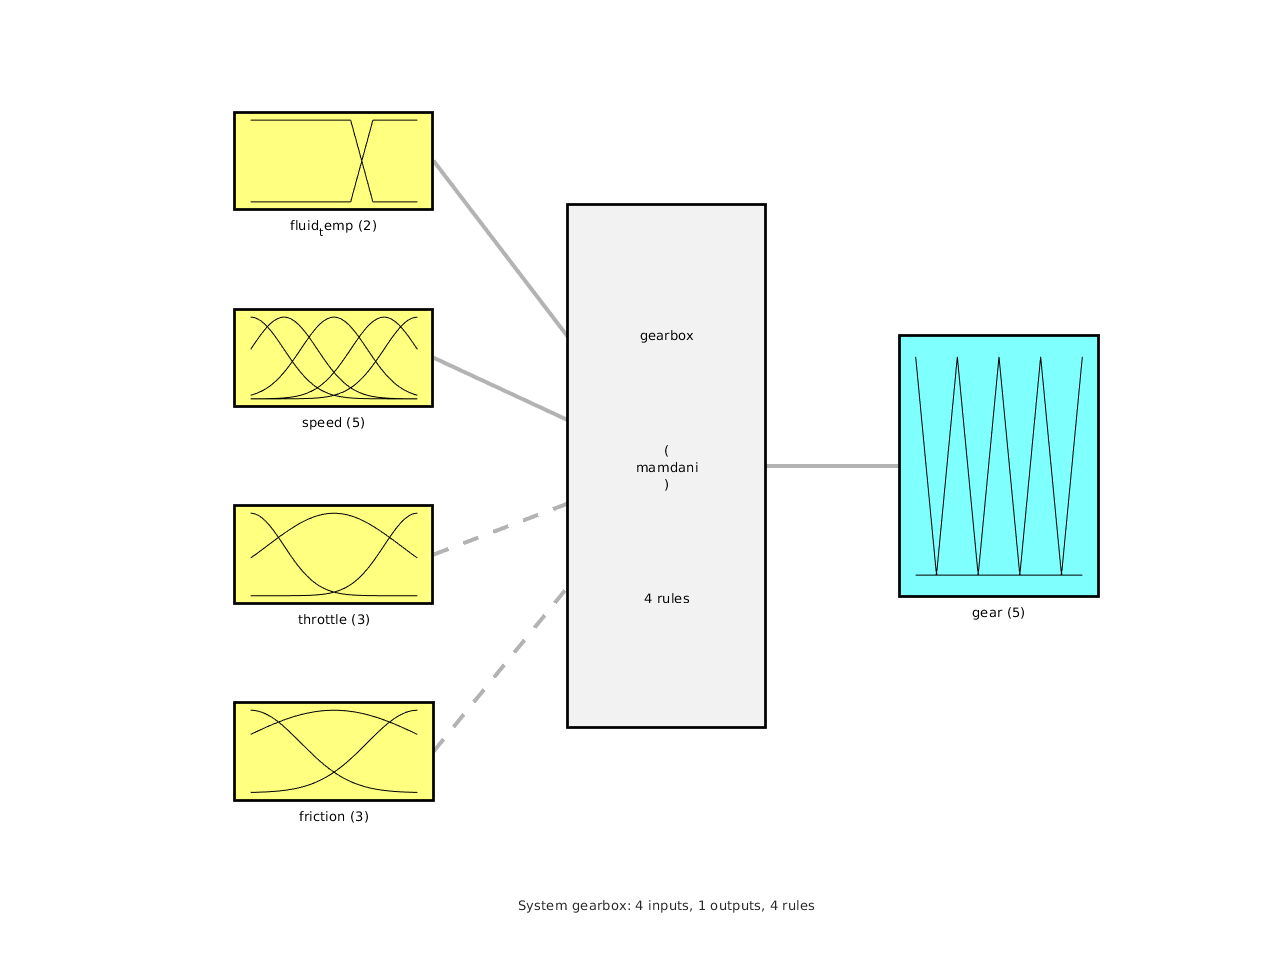
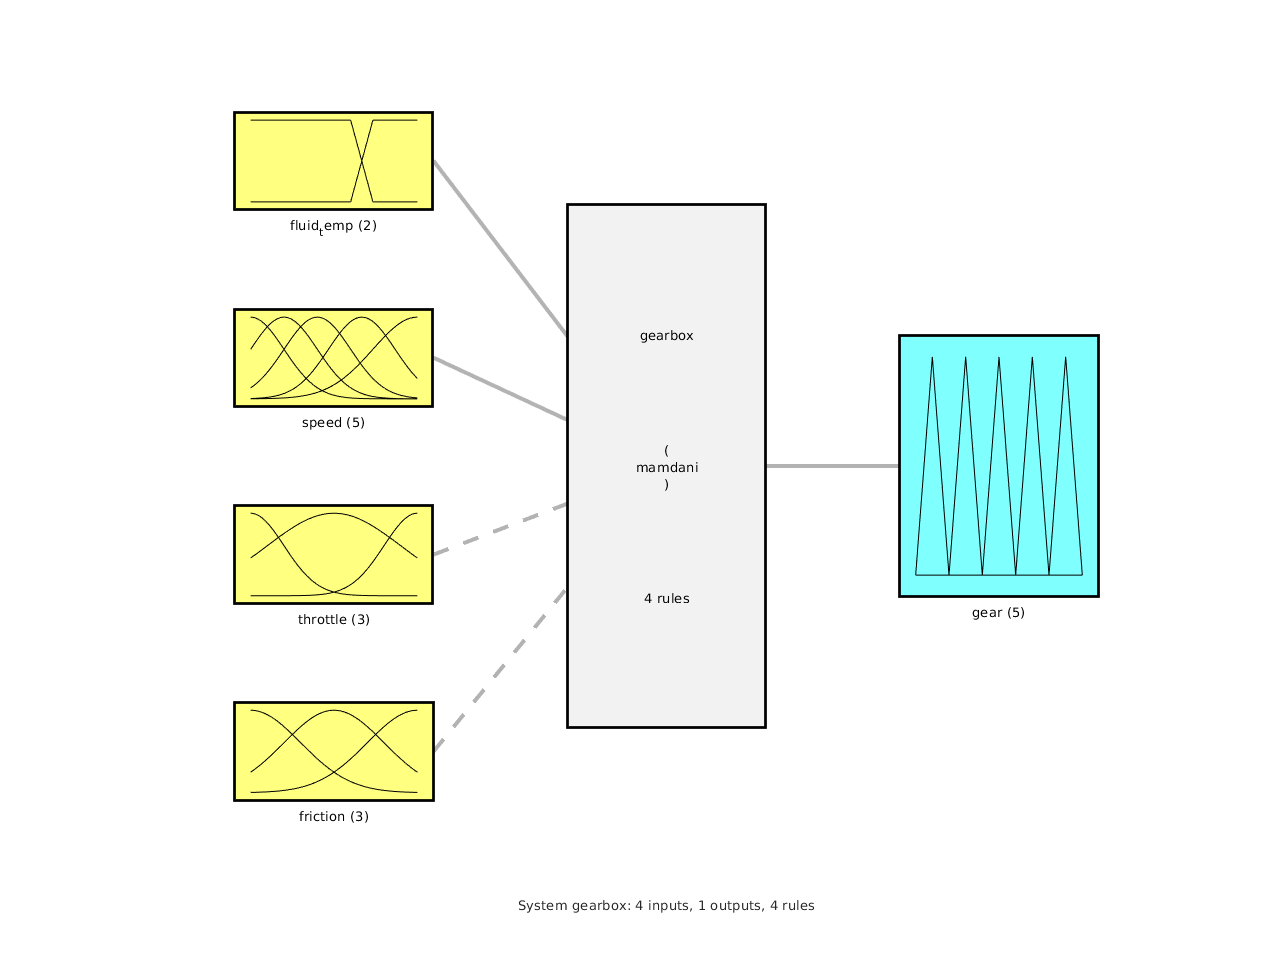
Add surf view and extra test inputs, change gear member variable.

Changed region(s): [[0.7143, 0.3727, 0.8385, 0.5901], [0.1863, 0.3106, 0.3106, 0.4348], [0.2795, 0.7453, 0.3106, 0.7764]]

diff --git a/gearbox.m b/gearbox.m
@@ -8,9 +8,9 @@ fis = addMF(fis,"fluid_temp","trapmf",[90 110 150 150],'Name',"high");
 fis = addInput(fis, [0, 150], "Name", "speed");
 fis = addMF(fis,"speed","gaussmf",[30 0],'Name',"very slow");
 fis = addMF(fis,"speed","gaussmf",[30 30],'Name',"slow");
-fis = addMF(fis,"speed","gaussmf",[30 75],'Name',"moderate");
-fis = addMF(fis,"speed","gaussmf",[30 120],'Name',"fast");
-fis = addMF(fis,"speed","gaussmf",[30 150],'Name',"very fast");
+fis = addMF(fis,"speed","gaussmf",[30 60],'Name',"moderate");
+fis = addMF(fis,"speed","gaussmf",[30 100],'Name',"fast");
+fis = addMF(fis,"speed","gaussmf",[40 150],'Name',"very fast");
 
 fis = addInput(fis, [0, 5], "Name", "throttle"); % Volts
 fis = addMF(fis,"throttle","gaussmf",[1 5],'Name',"open");
@@ -19,15 +19,15 @@ fis = addMF(fis,"throttle","gaussmf",[1 0],'Name',"closed");
 
 fis = addInput(fis, [0, 1], "Name", "friction");
 fis = addMF(fis,"friction","gaussmf",[.3 0],'Name',"slippy");
-fis = addMF(fis,"friction","gaussmf",[.6 .5],'Name',"stable");
+fis = addMF(fis,"friction","gaussmf",[.3 .5],'Name',"stable");
 fis = addMF(fis,"friction","gaussmf",[.3 1],'Name',"rough");
 
-fis = addOutput(fis,[1 5],'Name',"gear");
-fis = addMF(fis,"gear","trimf",[1 1 1.5],'Name',"first");
+fis = addOutput(fis,[0.5 5.5],'Name',"gear");
+fis = addMF(fis,"gear","trapmf",[0 0 1 1.5],'Name',"first");
 fis = addMF(fis,"gear","trimf",[1.5 2 2.5],'Name',"second");
 fis = addMF(fis,"gear","trimf",[2.5 3 3.5],'Name',"third");
 fis = addMF(fis,"gear","trimf",[3.5 4 4.5],'Name',"fourth");
-fis = addMF(fis,"gear","trimf",[4.5 5 6],'Name',"fifth");
+fis = addMF(fis,"gear","trapmf",[4.5 5  6 6],'Name',"fifth");
 
 
 % (fluid temp) param 1 idx of membership function,
@@ -38,20 +38,25 @@ fis = addMF(fis,"gear","trimf",[4.5 5 6],'Name',"fifth");
 % rule wright 0 or 1,
 % fuzzy operator 1==AND 2==OR
 % TODO: Add more rules.
-rulesList = [2 1 0 0 2 1 1;  % if very_slow && high temp -> second
-             1 1 0 0 1 1 1;  % if very_slow && normal temp-≥ first
+rulesList = [1 1 0 0 1 1 1;  % if very_slow && normal temp-≥ first
+             2 1 0 0 2 1 1;  % if very_slow && high temp -> second
              0 2 0 0 2 1 1; % if slow -> second
              0 5 0 0 5 1 1]; % if very_fast -> fifth
 fis = addRule(fis, rulesList);
 
 fis.output
-plotmf(fis,"input",2)
+plotmf(fis,"output",1)
 
-inputs = [60 15 4.5 .78; % normal temp, very slow, throttle open, rough
-          102 15 4.5 .78; % high temp, very slow, throttle open, rough
+        % Temp  Speed  Throttle   friction 
+inputs = [
+          1 1 0 0;
+          40 1 0 0;
+          40 1 4.5 .78; % normal temp, very slow, throttle open, rough
+          120 15 4.5 .78; % high temp, very slow, throttle open, rough
           60 50 4.5 .78; % normal temp, slow, throttle open, rough
           60 140 4.5 .78; % normal temp, very fast, throttle open, rough
     ]
 results = evalfis(fis, inputs)
 rounded_gear = round(results)
-plotfis(fis)
+%plotfis(fis)
+surfview(fis)
